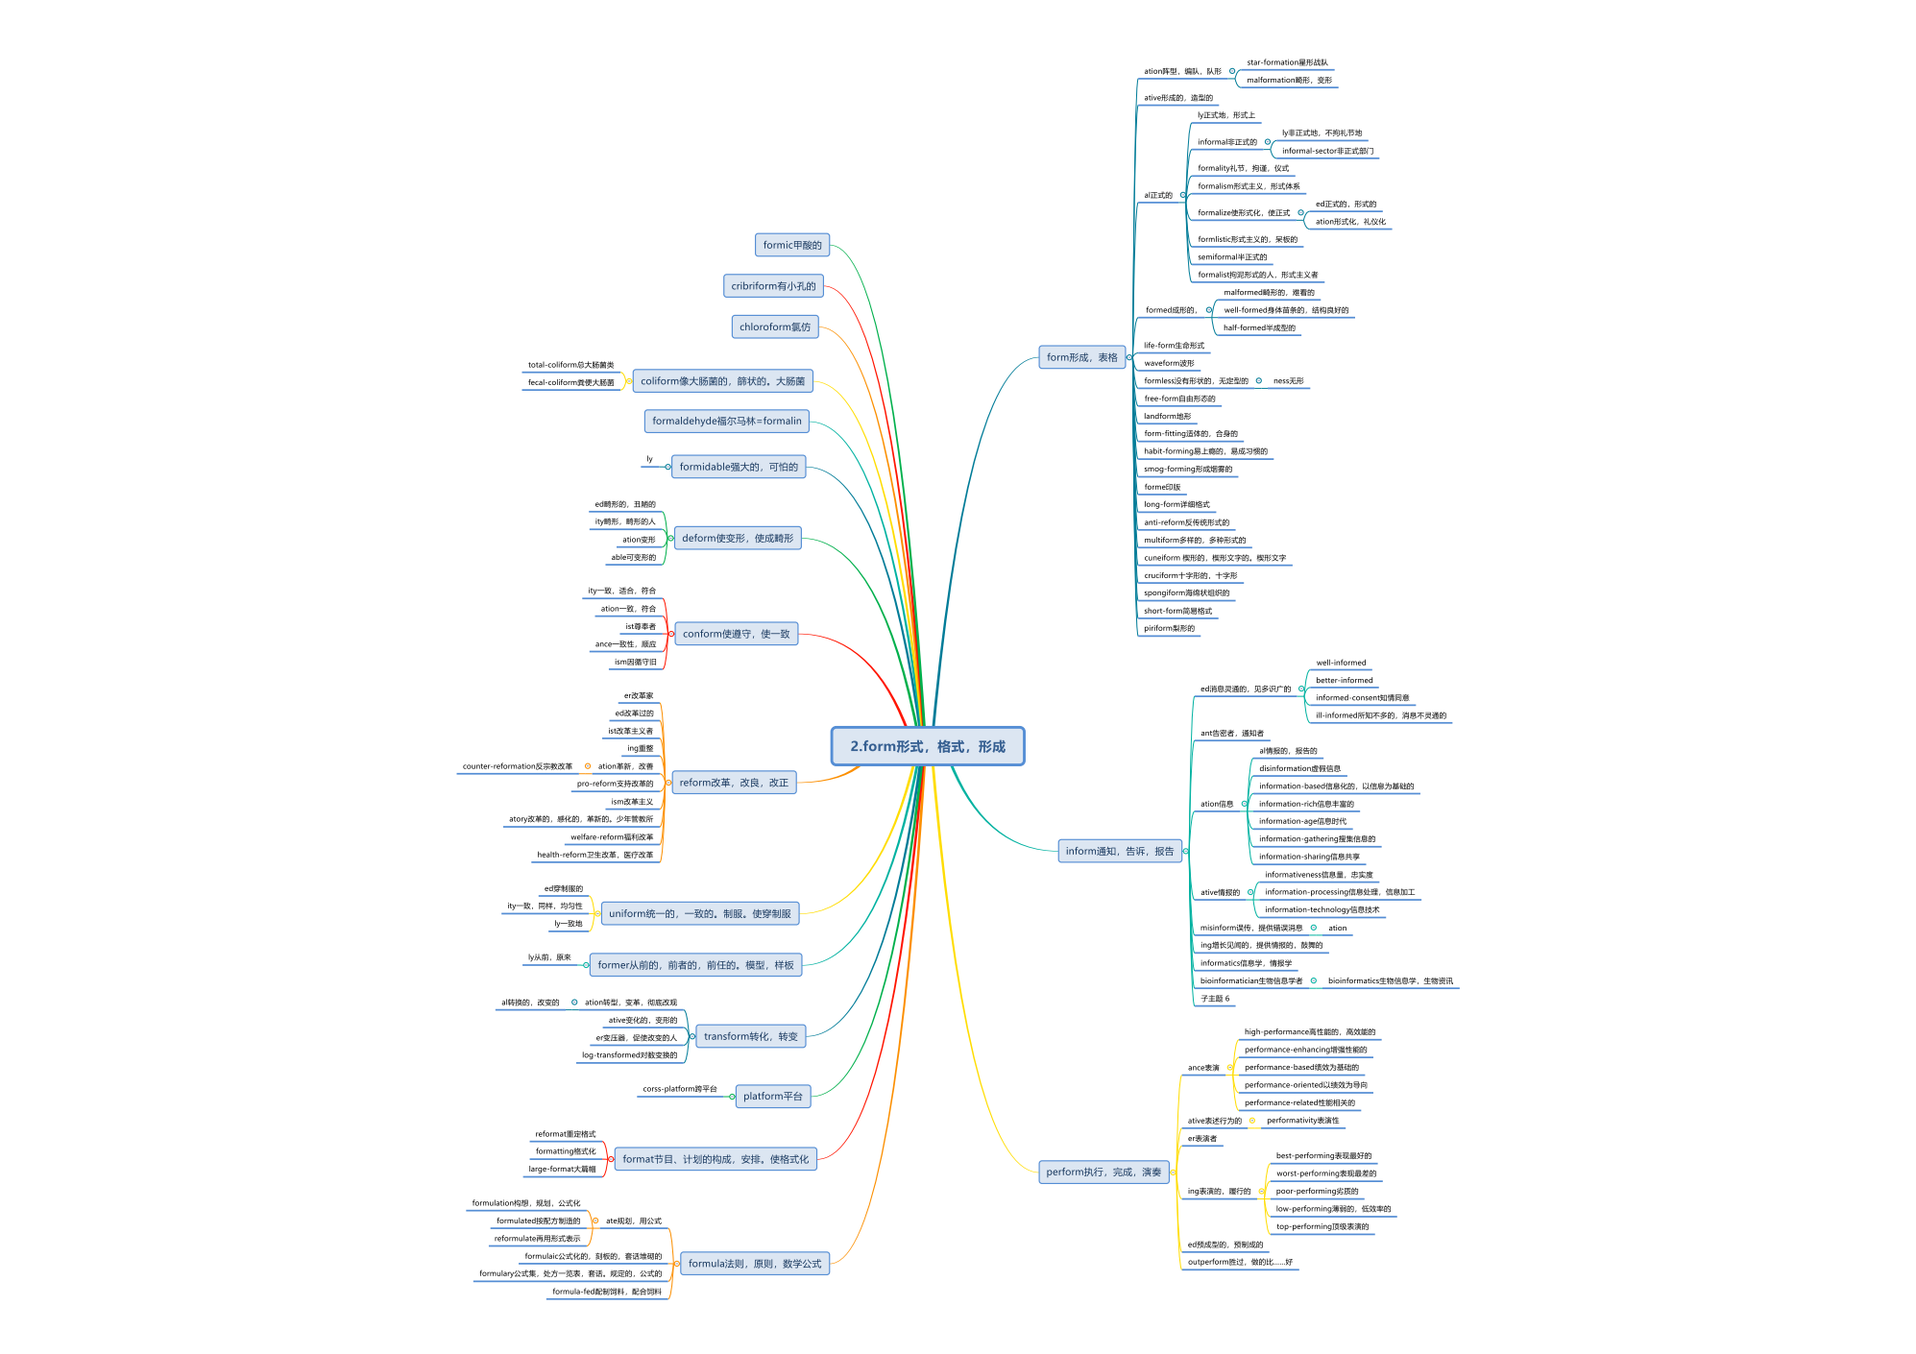
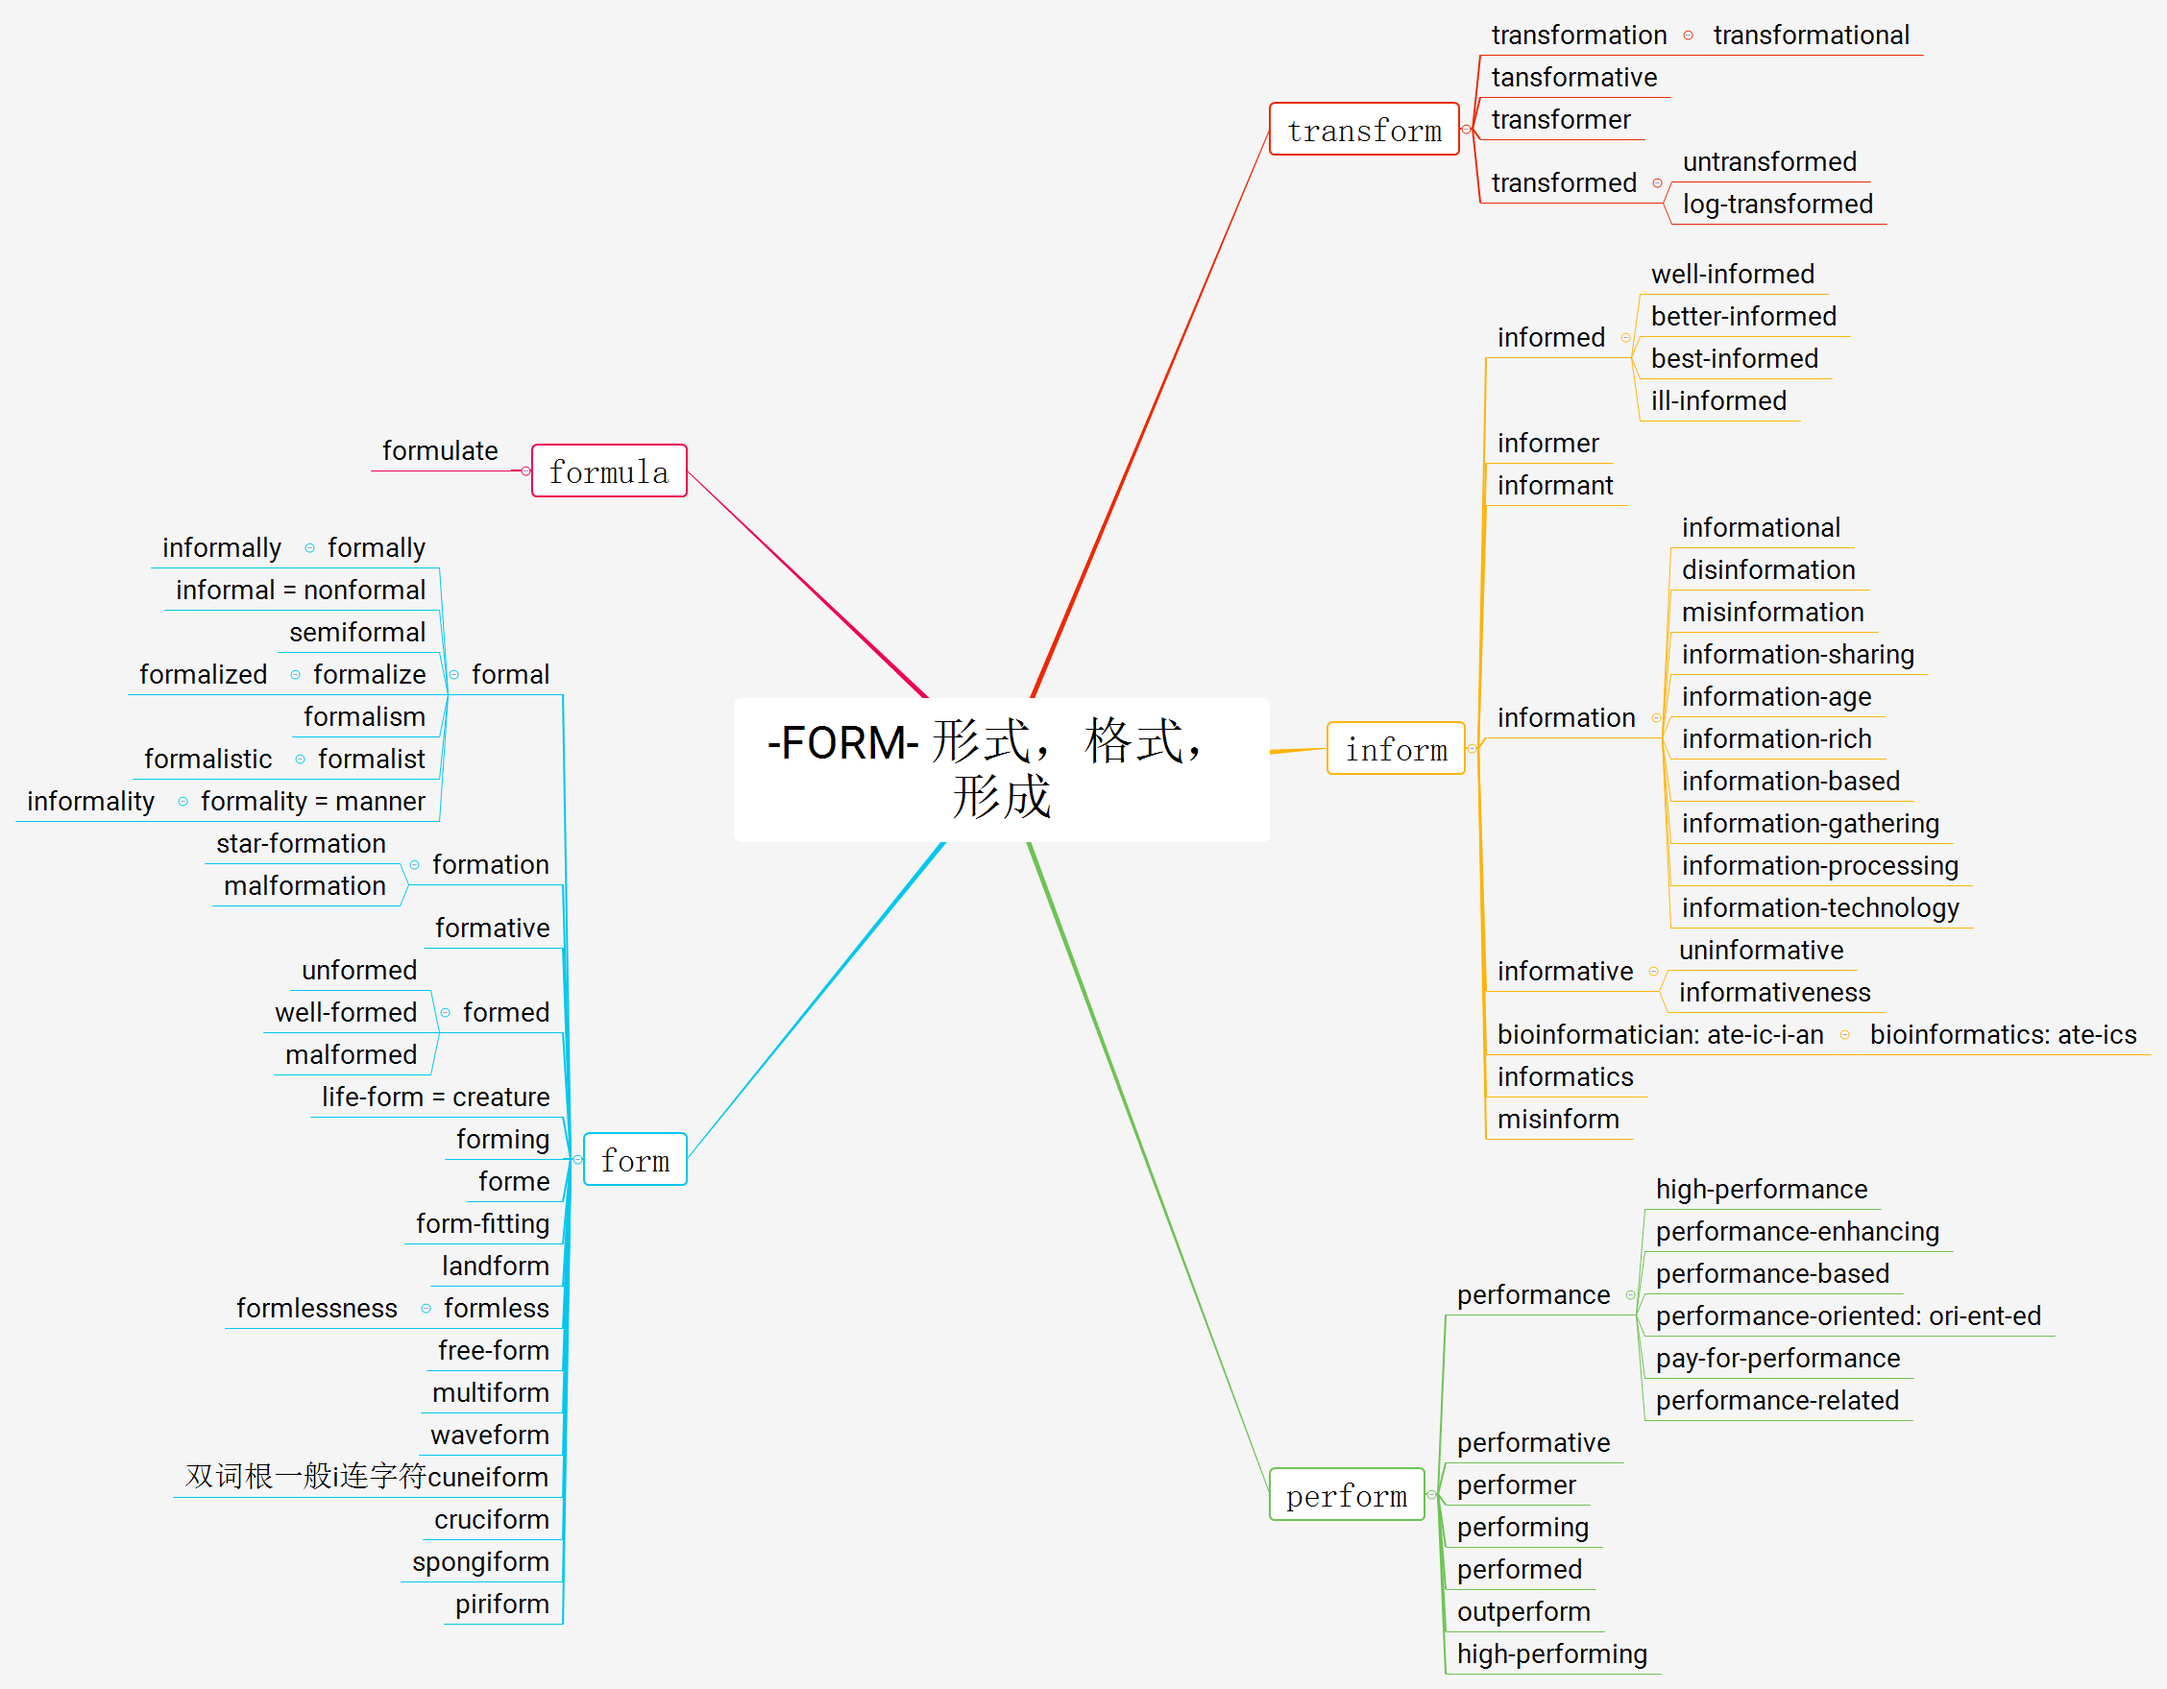
...

Changed region(s): [[0.0, 0.156, 0.5594, 0.9674], [0.5283, 0.0, 0.9945, 0.9986], [0.4972, 0.2809, 0.5283, 0.3433]]

diff --git a/content/posts/2020-03-11-【English】-form-.md b/content/posts/2020-03-11-【English】-form-.md
@@ -8,8 +8,6 @@ Tags: English
 
 [TOC]
 
-![form](images/English/form/form_bk.png)
-
 ![form](images/English/form/form.png)
 
 formally
